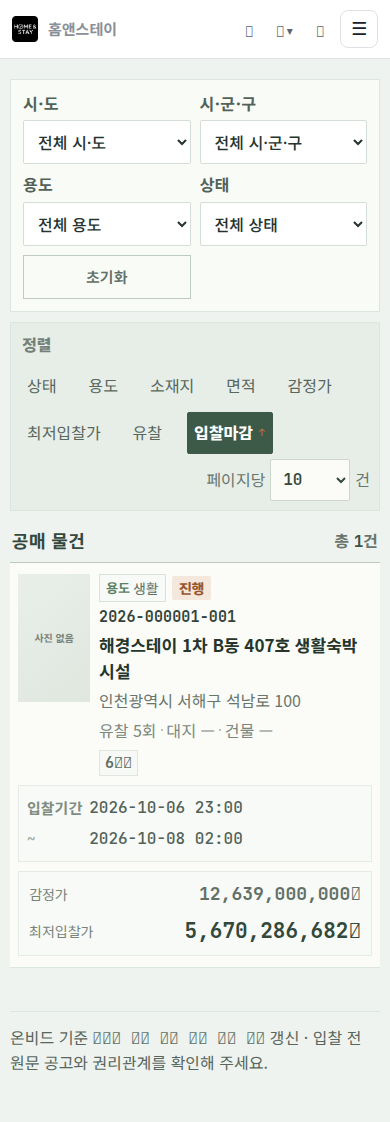
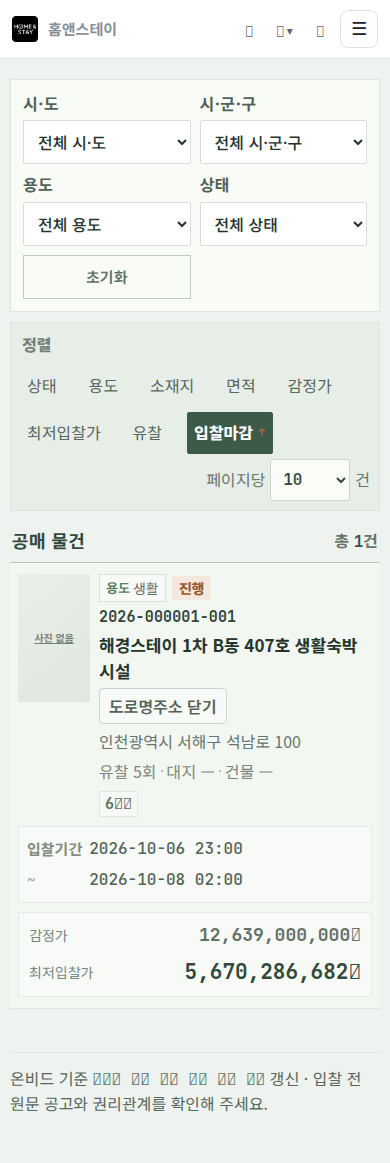
Update auction typography and related browser tests
Replit-Commit-Author: Agent

diff --git a/static/js/auctions.js b/static/js/auctions.js
@@ -25,6 +25,17 @@
   function initList(){
     const body=$("auctionResults"); if(!body)return;
     body.addEventListener("click",event=>{
+      const toggle=event.target.closest("[data-auction-address-toggle]");
+      if(toggle){
+        event.preventDefault();
+        const address=document.getElementById(toggle.getAttribute("aria-controls"));
+        if(!address)return;
+        const expanded=toggle.getAttribute("aria-expanded")!=="true";
+        toggle.setAttribute("aria-expanded",String(expanded));
+        toggle.textContent=expanded?"도로명주소 닫기":"도로명주소";
+        address.hidden=!expanded;
+        return;
+      }
       const row=event.target.closest("[data-auction-href]");
       if(row)rememberPosition();
       if(row&&!event.target.closest("a,button"))location.href=row.dataset.auctionHref;
@@ -101,7 +112,11 @@
       query.set("auction_list",listUrl());
       const href=`/?${query.toString()}`;
       const category=item.lodging_category||item.usage_name||"용도 미공개";
-      const address=item.address_road||item.address_jibun||"주소 미공개";
+       const roadAddress=String(item.address_road||"").trim();
+       const addressId=`auction-road-address-${item.id}`;
+       const addressHtml=roadAddress
+         ? `<button type="button" class="auction-address-toggle" data-auction-address-toggle aria-expanded="false" aria-controls="${esc(addressId)}">도로명주소</button><span class="auction-address" id="${esc(addressId)}" hidden>${esc(roadAddress)}</span>`
+         : `<span class="auction-address">${esc(item.address_jibun||"주소 미공개")}</span>`;
       const title=item.title||"물건명 미공개";
       const managementNo=item.management_no||"관리번호 미공개";
       const ratio=numeric(item.min_bid_ratio);
@@ -113,19 +128,19 @@
       const tagHtml=tags.map(([label,value])=>`<span class="auction-tag"><b>${esc(label)}</b>${esc(value)}</span>`).join("");
       const failed=numeric(item.failed_count);
       const round=item.round_no==null||item.round_no===""?"회차 미공개":`${esc(item.round_no)}회차`;
-      return `<a class="auction-row" data-auction-href="${esc(href)}" href="${esc(href)}">
-        <span class="auction-photo">${image}</span>
+      return `<article class="auction-row" data-auction-href="${esc(href)}">
+        <a class="auction-photo" href="${esc(href)}" aria-label="${esc(title)} 상세보기">${image}</a>
         <span class="auction-property">
           <span class="auction-tags">${tagHtml}${status}</span>
           <strong class="auction-management">${esc(managementNo)}</strong>
-          <span class="auction-title">${esc(title)}</span>
-          <span class="auction-address">${esc(address)}</span>
+          <a class="auction-title" href="${esc(href)}">${esc(title)}</a>
+          ${addressHtml}
           <span class="auction-area-line">유찰 ${failed===null?"—":`${failed}회`} <i></i> 대지 ${esc(area(item.land_area_m2))} <i></i> 건물 ${esc(area(item.building_area_m2))}</span>
         </span>
         <span class="auction-round">${round}</span>
         <span class="auction-schedule"><b>입찰기간</b><span>${esc(formatDate(item.bid_start_at))}</span><i>~</i><span>${esc(formatDate(item.bid_end_at))}</span></span>
         <span class="auction-prices"><span class="auction-appraisal"><small>감정가</small><b>${esc(money(item.appraisal_price))}</b></span><span class="auction-minimum"><small>최저입찰가 ${ratioText}</small><b>${esc(money(item.min_bid_price))}</b></span></span>
-      </a>`;
+      </article>`;
     }
     function formatUpdate(value){
       const date=new Date(value);if(Number.isNaN(date.getTime()))return esc(value);

diff --git a/static/css/auctions.css b/static/css/auctions.css
@@ -84,6 +84,12 @@ dialog.auction-panel-lightbox{width:100vw;height:100dvh;max-width:none;max-heigh
 .auction-management{color:#34443a;font:700 12px var(--auction-mono);letter-spacing:.01em}
 .auction-title{max-width:100%;color:#25352c;font-size:12px;font-weight:700;line-height:1.45;overflow-wrap:anywhere}
 .auction-address{max-width:100%;color:#68756c;font-size:10px;line-height:1.45;white-space:normal;overflow-wrap:anywhere}
+.auction-address[hidden]{display:none}
+.auction-row{cursor:pointer}
+.auction-title{text-decoration:none}
+.auction-title:hover{text-decoration:underline}
+.auction-address-toggle{padding:3px 8px;border:1px solid #cbd6cd;border-radius:4px;background:#f8faf7;color:#536258;font:600 12px/1.4 "Noto Sans KR",sans-serif;cursor:pointer}
+.auction-address-toggle:focus-visible{outline:2px solid #3d5948;outline-offset:2px}
 .auction-area-line{display:flex;flex-wrap:wrap;align-items:center;gap:5px;color:#7b877e;font-size:9px;line-height:1.4}
 .auction-area-line i{width:2px;height:2px;border-radius:50%;background:#a6b0a7}
 .auction-round{color:#5e6e63;font:600 11px var(--auction-mono);text-align:center;white-space:nowrap}
@@ -160,6 +166,7 @@ dialog.auction-panel-lightbox{width:100vw;height:100dvh;max-width:none;max-heigh
   .auction-management{font-size:15px}
   .auction-title{font-size:17px;line-height:1.5;overflow-wrap:anywhere}
   .auction-address{font-size:16px;line-height:1.55}
+  .auction-address-toggle{min-height:36px;padding:5px 9px;font-size:16px}
   .auction-area-line{font-size:16px;line-height:1.5}
   .auction-tag{padding:4px 6px;font-size:14px;line-height:1.35}
   .auction-tag b{font-size:13px}
